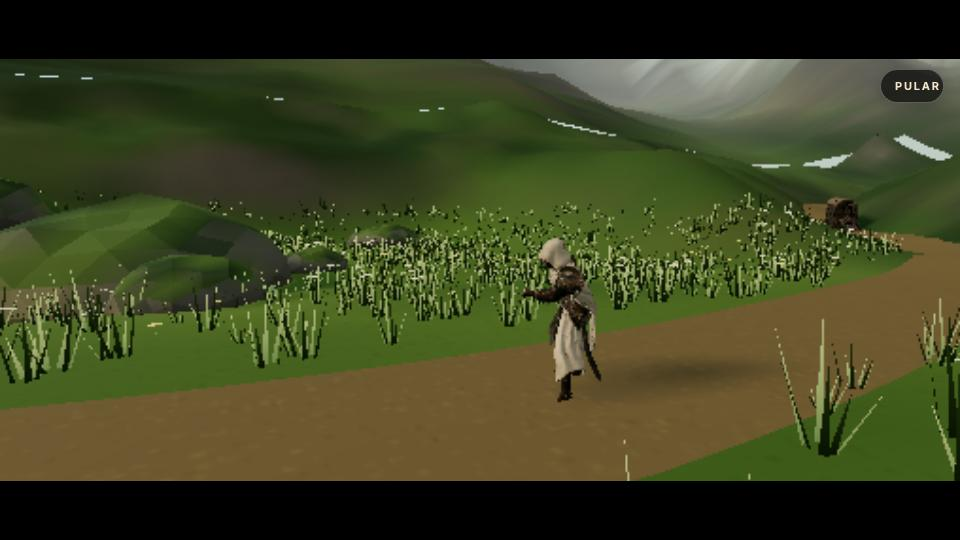
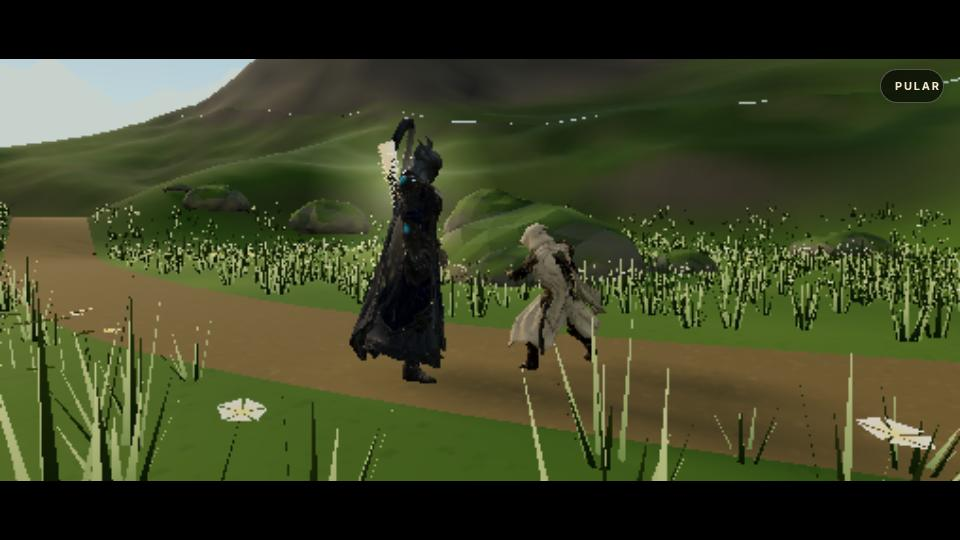
Mod 317: evidências do jogo real (despertar, asas após recarregar, Teren, interior, bandidos, abrigos), meta de câmera do encontro acima do capim e esquadra conferida direto no CI
Claude-Session: https://claude.ai/code/session_01Df6v5vQwsoCNQPPSg1jLUc

diff --git a/mundo-3d-prototype.js b/mundo-3d-prototype.js
@@ -7976,6 +7976,7 @@ if(new URLSearchParams(location.search).has('debug3d'))window.SevenSinsDebug3D={
  rippleNow(){const m=playerWaterBody();if(m){const t=performance.now()*.001;m.addRipple(player.position.x,player.position.z,t,1.4);}return !!m;},
  cartProfile(){ensureRoadProps();if(!road.cartModel)return null;road.group.visible=true;road.cart.updateMatrixWorld(true);const rc=new THREE.Raycaster(),out={};const o=new THREE.Vector3(),dn=new THREE.Vector3(0,-1,0);
   for(const x of [-.8,-.4,0,.4,.8]){const row=[];for(let z=2.6;z>=-2.6;z-=.2){o.set(x,3.2,z);road.cart.localToWorld(o);rc.set(o,dn);const hits=rc.intersectObject(road.cartModel,true).map(h=>+road.cart.worldToLocal(h.point.clone()).y.toFixed(2));row.push([+z.toFixed(1),hits.slice(0,4)]);}out['x'+x]=row;}return out;},
+ cartWorld(x,y,z){if(!road.cart)return null;road.cart.updateMatrixWorld(true);return road.cart.localToWorld(new THREE.Vector3(x,y,z)).toArray();},
  seatProbe(){if(!road.cart)return null;road.cart.updateMatrixWorld(true);const inv=road.cart.matrixWorld.clone().invert(),L=v=>{const q=v.clone().applyMatrix4(inv);return q.toArray().map(n=>+n.toFixed(2));};const out={cam:L(camera.position),fwd:new THREE.Vector3(0,0,-1).applyQuaternion(camera.quaternion).transformDirection(inv).toArray().map(n=>+n.toFixed(2)),fov:camera.fov,near:camera.near,gVis:(()=>{let o=guideModel,v=true;while(o){v=v&&o.visible;o=o.parent;}return v;})(),gIn:!!(guideModel&&guideModel.parent),pVis:player.visible,mVis:model&&model.visible};const hh=cineBone(/head$/i);if(hh)out.heroHead=L(hh.getWorldPosition(new THREE.Vector3()));out.hero=L(player.position);if(guideModel){let gh=null;guideModel.traverse(o=>{if(!gh&&o.isBone&&/^head$/i.test(o.name||''))gh=o;});if(gh)out.guideHead=L(gh.getWorldPosition(new THREE.Vector3()));const gb=new THREE.Box3().setFromObject(guideModel);out.guideBox=[L(gb.min),L(gb.max)];}
   const rc=new THREE.Raycaster(),hit=(o,d)=>{rc.set(o,d);rc.far=8;const h=rc.intersectObject(road.cartModel,true)[0];return h?+h.distance.toFixed(2):null;},W=(x,y,z)=>road.cart.localToWorld(new THREE.Vector3(x,y,z)),dir=(x,y,z)=>new THREE.Vector3(x,y,z).transformDirection(road.cart.matrixWorld);
   out.walls={};for(const z of [-1.45,-.5,.42]){const o=W(0,2,z);out.walls[z]={up:hit(o,dir(0,1,0)),down:hit(o,dir(0,-1,0)),left:hit(o,dir(-1,0,0)),right:hit(o,dir(1,0,0)),back:hit(o,dir(0,0,-1)),front:hit(o,dir(0,0,1))};}

diff --git a/prologue-road-flow.js b/prologue-road-flow.js
@@ -62,7 +62,7 @@ const act = (id, args) => ({ type: 'do', id, args: args || {} });
 
 export function terenMeetScene() {
   return [
-    shot('carroca-chega', 3.2, { cam: 'look', on: 'cart', off: [6.5, 2.6, 7.5], at: [0, 1.4, 1.5] }, { with: [act('carroca-frear')] }),
+    shot('carroca-chega', 3.2, { cam: 'look', on: 'cart', off: [6.5, 3.5, 7.5], at: [0, 1.4, 1.5] }, { with: [act('carroca-frear')] }),
     say(T.teren, 'Vocês vieram daquela trilha? Não é boa ideia andar por aqui.', { actor: 'teren' }),
     say(S.hero, 'Estamos procurando uma cidade.'),
     say(T.teren, 'Vou até Eldória. Se ajudarem a segurar as cargas, podem vir.', { actor: 'teren' }),

diff --git a/docs/eldoria/mod317-prologo-imersao.md b/docs/eldoria/mod317-prologo-imersao.md
@@ -39,6 +39,10 @@ PR e no CI (`prologue-mod317-evidence.yml`).
 - Antes de qualquer humano aparecer, o herói pergunta das asas e Aethraziel as recolhe com um gesto curto (dobra e
   brilho que se fecha), dizendo as falas do roteiro ("Diante das pessoas, me chame de Vaelthar").
 - O estado fica em `seven-sins-3d-guide-wings`: pular cenas ou recarregar nunca faz as asas reaparecerem fora de hora.
+- Save recarregado antes das asas: a cena só arma com o herói já no prado (o save reposiciona o herói depois do primeiro
+  quadro) e o anjo é posto ao lado do herói antes do plano.
+- Na estrada do prólogo, do despertar até a chegada, Vaelthar anda ao lado do herói. Na luta ele fica junto da carroça
+  e, dentro dela, sentado.
 - Na carroça e diante de Teren, o guia fala como Vaelthar.
 
 ## Teren, carroça e estrada (Gate 5)
@@ -59,6 +63,10 @@ PR e no CI (`prologue-mod317-evidence.yml`).
   senta no assoalho de frente para ele, joelhos dobrados, sob a lona.
 - **Câmera interna:** por cima do ombro de um passageiro para o rosto do outro, com tremor discreto da estrada. Nada de
   câmera olhando o vazio durante a conversa.
+  - Os alvos foram medidos no jogo com os dois sentados. A câmera roda antes da pose sentada no quadro, então não usa o
+    osso.
+  - Um raio contra a malha da carroça impede que a câmera fique atrás de uma tábua.
+  - Entrar no interior e trocar de quem fala são cortes secos.
 - Depois da conversa: "3 HORAS DEPOIS" com a tela escura, e o herói acorda **dentro** da carroça com piscadas.
 - A viagem só pode ser pulada depois da primeira exibição.
 
@@ -93,6 +101,11 @@ PR e no CI (`prologue-mod317-evidence.yml`).
 - O registro só acontece no **centro** da plataforma ("REGISTRAR ESTE ABRIGO"). A viagem chega no centro, nunca em
   pilar ou água.
 - Checkpoints de história e de chefe continuam separados dos abrigos.
+
+## Evidências locais
+`docs/eldoria/mod317-evidencias/` guarda 28 quadros do jogo real (Chromium + SwiftShader, 960×540): céu, despertar,
+asas (inclusive após recarregar o save), Teren, embarque, interior, 3 horas depois, cinco bandidos, vila e abrigos. O
+CI gera o restante em paisagem mobile e desktop, com métricas.
 
 ## Narrativa (Gate 9)
 Céu → despertar → asas → Teren → carroça → cinco bandidos → chegada a Eldória: tudo jogável e com estado salvo em cada
